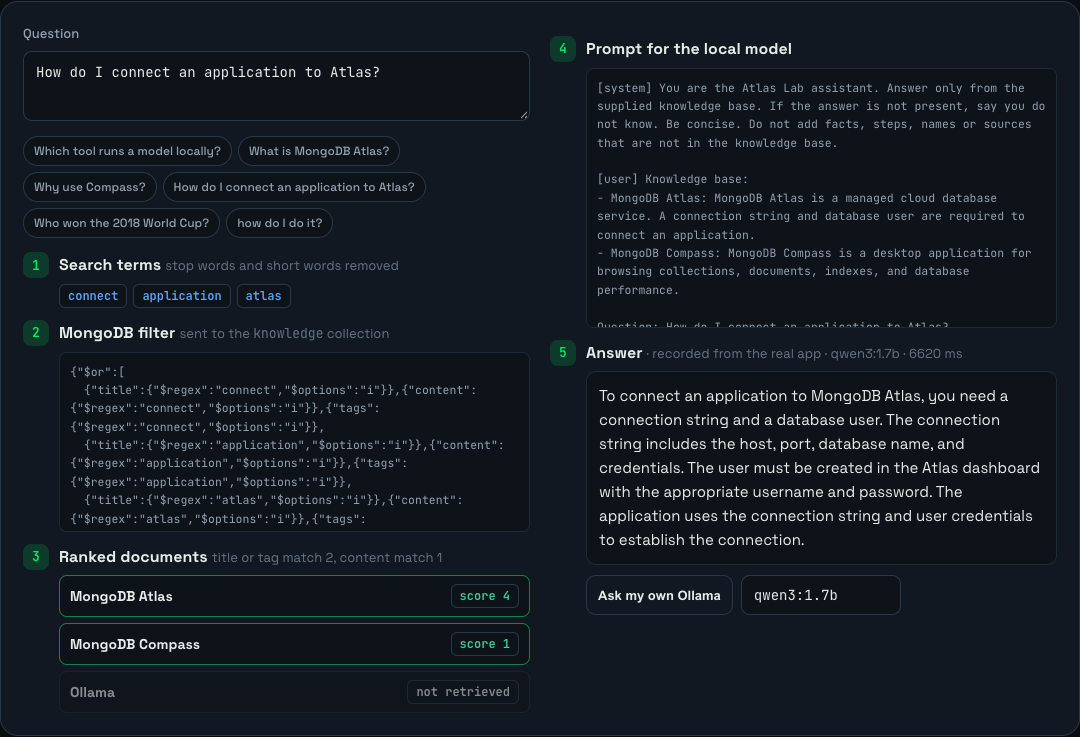
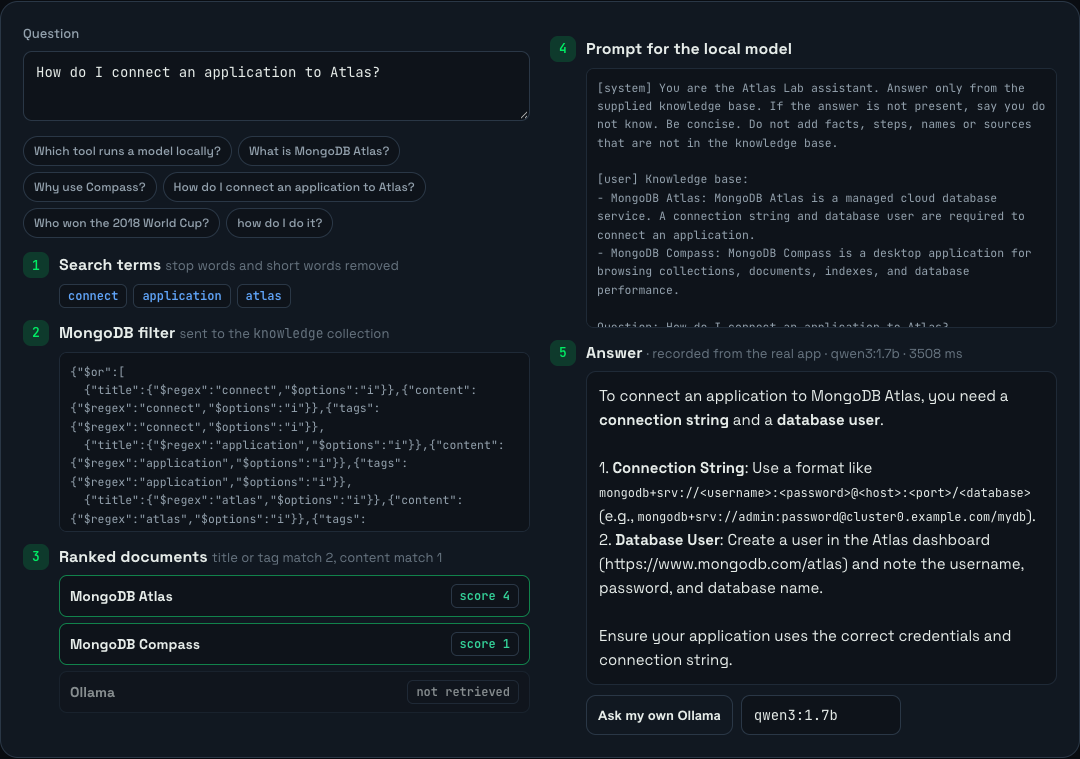
Showcase: answers and screenshots recorded against the real Atlas cluster
Atlas was unreachable on 17 November (this Mac's IP was not on the access
list), so the page used a local MongoDB. With the IP added, answers and
screenshots are re-recorded against mongodb-lab-cluster.

diff --git a/site/index.html b/site/index.html
@@ -46,7 +46,7 @@
     <div class="ctas"><a class="btn primary" href="#demo"><svg viewBox="0 0 24 24" fill="currentColor"><path d="M8 5v14l11-7z"/></svg> Try the retrieval</a><a class="btn" href="https://github.com/phlppgdfry/MongoDB-lab-1"><svg viewBox="0 0 24 24" fill="currentColor"><path d="M12 .5a11.5 11.5 0 0 0-3.64 22.41c.58.1.79-.25.79-.56v-2c-3.2.7-3.88-1.37-3.88-1.37-.53-1.33-1.28-1.69-1.28-1.69-1.05-.72.08-.7.08-.7 1.16.08 1.77 1.19 1.77 1.19 1.03 1.77 2.7 1.26 3.36.96.1-.75.4-1.26.73-1.55-2.55-.29-5.24-1.28-5.24-5.69 0-1.26.45-2.29 1.19-3.1-.12-.29-.52-1.46.11-3.05 0 0 .97-.31 3.17 1.18a11 11 0 0 1 5.77 0c2.2-1.49 3.17-1.18 3.17-1.18.63 1.59.23 2.76.11 3.05.74.81 1.19 1.84 1.19 3.1 0 4.42-2.7 5.39-5.26 5.68.41.36.78 1.06.78 2.14v3.17c0 .31.21.67.8.56A11.5 11.5 0 0 0 12 .5Z"/></svg> Source on GitHub</a></div>
     <div class="stack"><span class="chip">TypeScript</span><span class="chip">Node.js HTTP server</span><span class="chip">MongoDB Atlas</span><span class="chip">Ollama · qwen3:1.7b</span><span class="chip">node:test</span><span class="chip">Docker</span><span class="chip">GitHub Actions</span></div>
   </div>
-  <div class="hero-visual"><div class="frame"><img src="img/MongoDB-lab-1-shots-grounded.webp" alt="Atlas Lab" width="1600" height="832"></div><div class="caption">The real app answering from one retrieved document, with the source listed under the answer.</div></div>
+  <div class="hero-visual"><div class="frame"><img src="img/MongoDB-lab-1-shots-grounded.webp" alt="Atlas Lab" width="1600" height="832"></div><div class="caption">The real app connected to MongoDB Atlas, answering from one retrieved document with its source listed.</div></div>
 </div></header>
 <section id="why"><div class="wrap">
   <p class="eyebrow">Why it exists</p><h2>"Answer only from the knowledge base" is a wish, not a control.</h2>
@@ -75,7 +75,7 @@
   </div>
 </div>
 </div>
-  <p class="note">Recorded on 17 November 2026 against a local MongoDB 7 with the repo's seed data: the Atlas cluster rejected this machine's connection (TLS alert, typically an IP access-list setting), so screenshots and answers come from the same code pointed at a local database.</p>
+  <p class="note">Recorded on 24 November 2026 against the real MongoDB Atlas cluster with the repo's three seed documents and qwen3:1.7b through Ollama. Atlas retrieval took about 20 ms; generation a few seconds on a laptop.</p>
 </div></section>
 <section id="how"><div class="wrap">
   <p class="eyebrow">How it works</p><h2>Small on purpose, production-minded where it counts</h2>
@@ -85,8 +85,8 @@
 </div></section>
 <section id="screens"><div class="wrap">
   <p class="eyebrow">Screens</p><h2>What it looks like</h2>
-  <p class="sub">The real app, run locally and captured with Playwright.</p>
-  <div class="gallery"><figure data-zoom="Out of scope, refused — No documents matched, so the model was not called (7 ms)."><div class="frame"><img src="img/MongoDB-lab-1-shots-refused.webp" alt="Out of scope, refused" width="1600" height="832" loading="lazy" decoding="async"></div><figcaption><b>Out of scope, refused</b> No documents matched, so the model was not called (7 ms).</figcaption></figure><figure data-zoom="A longer answer — Grounded in the Atlas document, but the 1.7B model still adds an example URI: the next step is an evaluation set."><div class="frame"><img src="img/MongoDB-lab-1-shots-atlas.webp" alt="A longer answer" width="1600" height="1131" loading="lazy" decoding="async"></div><figcaption><b>A longer answer</b> Grounded in the Atlas document, but the 1.7B model still adds an example URI: the next step is an evaluation set.</figcaption></figure><figure data-zoom="On a phone — The same app at 390 pixels."><div class="frame"><img src="img/MongoDB-lab-1-shots-mobile.webp" alt="On a phone" width="1170" height="2532" loading="lazy" decoding="async"></div><figcaption><b>On a phone</b> The same app at 390 pixels.</figcaption></figure></div>
+  <p class="sub">The real app connected to the Atlas cluster, captured with Playwright.</p>
+  <div class="gallery"><figure data-zoom="Out of scope, refused — No documents matched, so the model was not called (7 ms)."><div class="frame"><img src="img/MongoDB-lab-1-shots-refused.webp" alt="Out of scope, refused" width="1600" height="832" loading="lazy" decoding="async"></div><figcaption><b>Out of scope, refused</b> No documents matched, so the model was not called (7 ms).</figcaption></figure><figure data-zoom="A longer answer — Grounded in the Atlas document, but the 1.7B model still adds an example URI: the next step is an evaluation set."><div class="frame"><img src="img/MongoDB-lab-1-shots-atlas.webp" alt="A longer answer" width="1600" height="1384" loading="lazy" decoding="async"></div><figcaption><b>A longer answer</b> Grounded in the Atlas document, but the 1.7B model still adds an example URI: the next step is an evaluation set.</figcaption></figure><figure data-zoom="On a phone — The same app at 390 pixels."><div class="frame"><img src="img/MongoDB-lab-1-shots-mobile.webp" alt="On a phone" width="1170" height="2532" loading="lazy" decoding="async"></div><figcaption><b>On a phone</b> The same app at 390 pixels.</figcaption></figure></div>
 </div></section>
 <section id="evidence"><div class="wrap">
   <p class="eyebrow">Evidence</p><h2>What is real, and what is not</h2>
@@ -94,7 +94,7 @@
   <div class="metrics"><div class="metric"><div class="v">6</div><div class="l">real tests</div><div class="s">replacing one that asserted typeof "/api/health" === "string"</div></div><div class="metric"><div class="v">0 ms</div><div class="l">model time when nothing matches</div><div class="s">a fixed refusal instead of a guess</div></div><div class="metric"><div class="v">3</div><div class="l">seed documents</div><div class="s">small enough to read in one sitting</div></div></div>
   <div class="honest" style="margin-top:18px">
       <div class="card real"><h3><span class="pill ok">REAL</span> Built and verified</h3><ul><li>Node.js API with MongoDB retrieval, Ollama generation, rate limiting and health checks</li><li>Answers and screenshots on this page come from the real app and a real local model</li><li>Retrieval rules and the no-sources refusal are covered by tests in CI</li></ul></div>
-      <div class="card sim"><h3><span class="pill warn">SIMULATED</span> Mocked or not built yet</h3><ul><li>Keyword matching, not Atlas Search or vector search yet</li><li>Three seed documents; no evaluation set for answer quality yet</li><li>Recorded against a local MongoDB because the Atlas cluster was not reachable from this machine</li></ul></div></div>
+      <div class="card sim"><h3><span class="pill warn">SIMULATED</span> Mocked or not built yet</h3><ul><li>Keyword matching, not Atlas Search or vector search yet</li><li>Three seed documents; no evaluation set for answer quality yet</li><li>Atlas access is limited to listed IP addresses; a changed home IP blocks the connection until it is added again</li></ul></div></div>
 </div></section>
 <section id="run"><div class="wrap two">
   <div><p class="eyebrow">Run it yourself</p><h2>Run it locally</h2>
@@ -116,5 +116,6 @@ npm run check             # build + tests</code></pre></div></div>
   <span><a href="https://www.philippegodfroy.com/work">More projects</a> · <a href="https://github.com/phlppgdfry/MongoDB-lab-1">Source</a></span>
 </div></footer>
 <script src="assets/showcase.js"></script>
+
 <script src="assets/demo.js" type="module"></script>
 </body></html>
